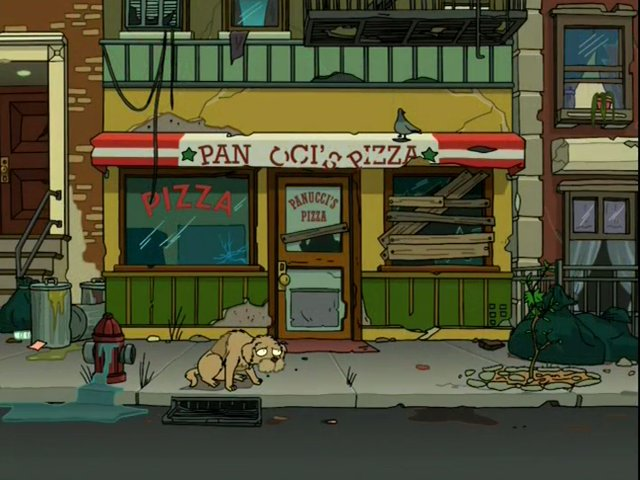
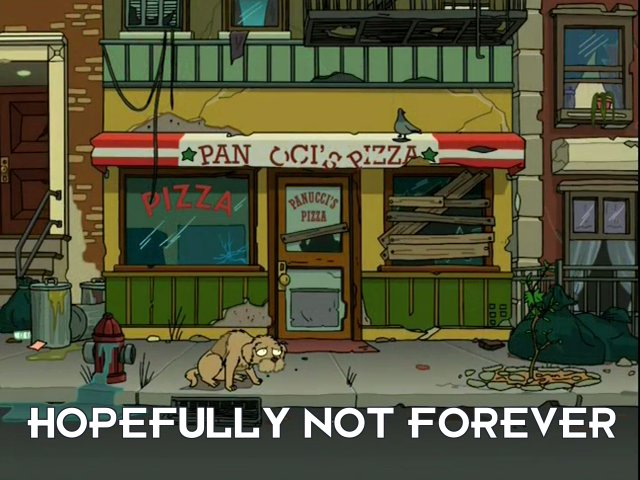
lightning talk finishing touch

Changed region(s): [[0.0312, 0.8438, 0.9688, 0.9375]]

diff --git a/lightning.tex b/lightning.tex
@@ -58,12 +58,12 @@
     \item We typically use \texttt{std::mutex} for synchronization.
 \iftransitions \pause \fi
     \item A thread attempting to lock an unavailable mutex will \emph{block}.
-\iftransitions \pause \fi
-    \item Hopefully not forever.
-    \begin{center}
-        \includegraphics[height=0.4\textheight]{resources/waiting.jpg}
-    \end{center}
   \end{itemize}
+
+  \iftransitions \pause \fi
+  \begin{center}
+    \includegraphics[height=0.5\textheight]{resources/waiting.jpg}
+  \end{center}
 \end{frame}
 
 \begin{frame}[fragile]
@@ -120,6 +120,32 @@ std::mutex mtx;
 \end{itemize}
 
 \end{frame}
+
+\iftransitions
+
+\begin{frame}[fragile]
+
+\frametitle{Non-blocking algorithms}
+
+\begin{lstlisting}[language=C++,basicstyle=\ttfamily,keywordstyle=\color{blue},commentstyle=\color{teal}\itshape,showstringspaces=false,escapeinside={(*@}{@*)}]
+std::atomic<int> a;
+// [...](*@\iftransitions \pause \fi@*)
+{
+    auto const old_v = a.load();(*@\iftransitions \pause \fi@*)
+
+
+      // do critical stuff to compute new_v
+      // [...](*@\iftransitions \pause \fi@*)
+          a.compare_exchange_weak(old_v,
+                                  new_v) ;
+
+}
+\end{lstlisting}
+
+\end{frame}
+
+\fi
+
 
 \begin{frame}[fragile]
 
